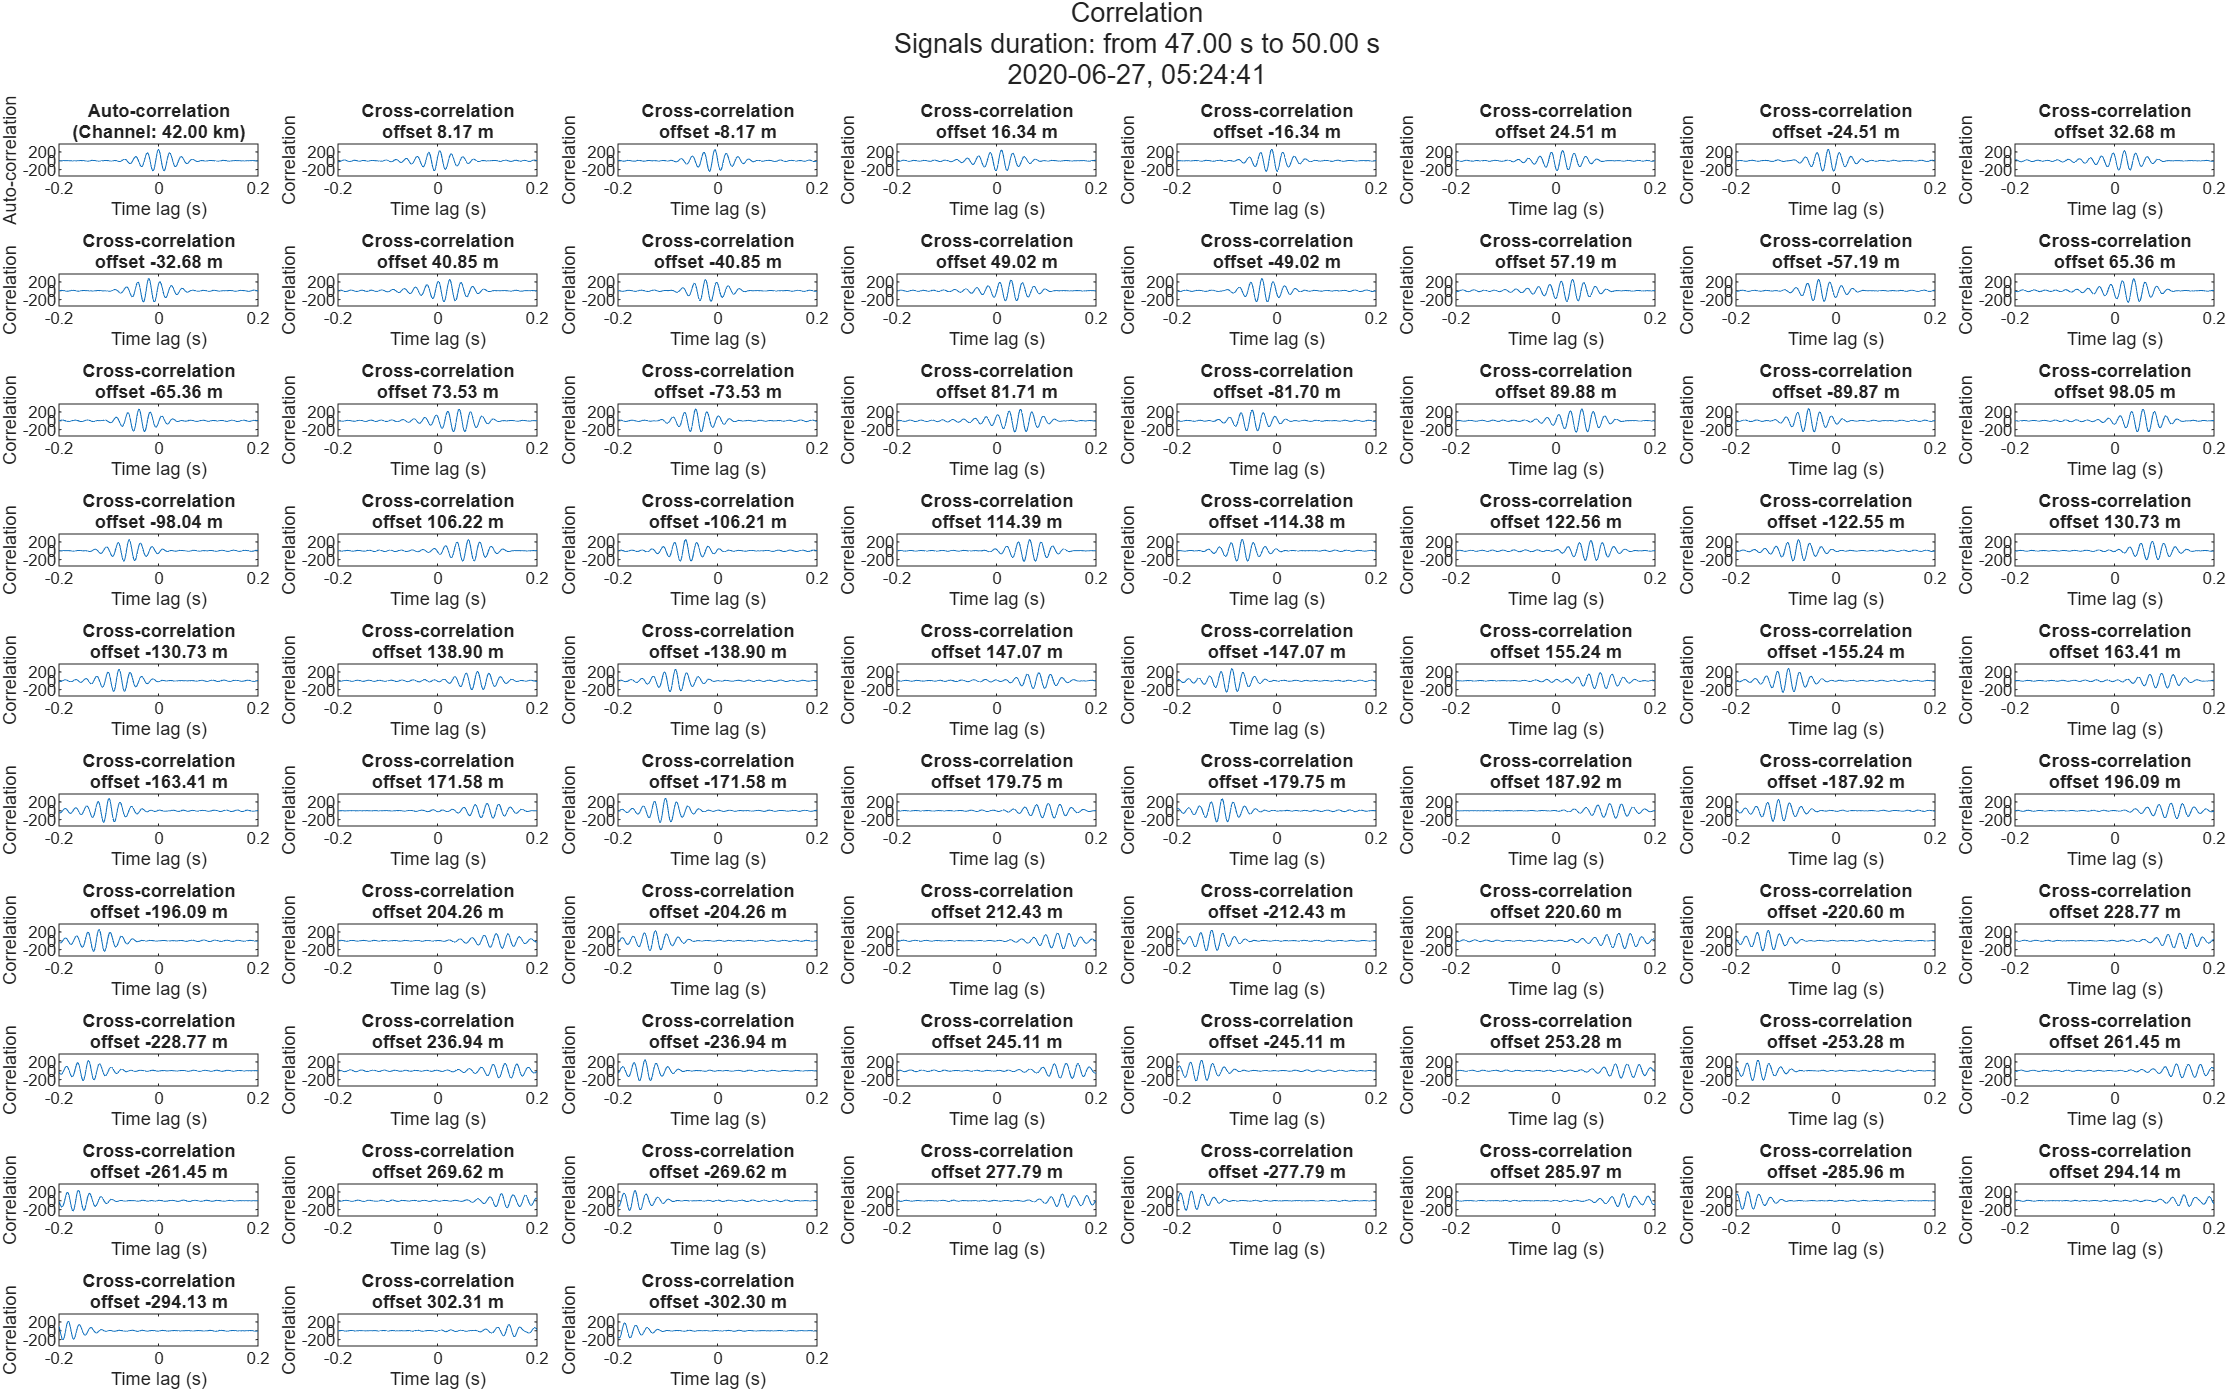
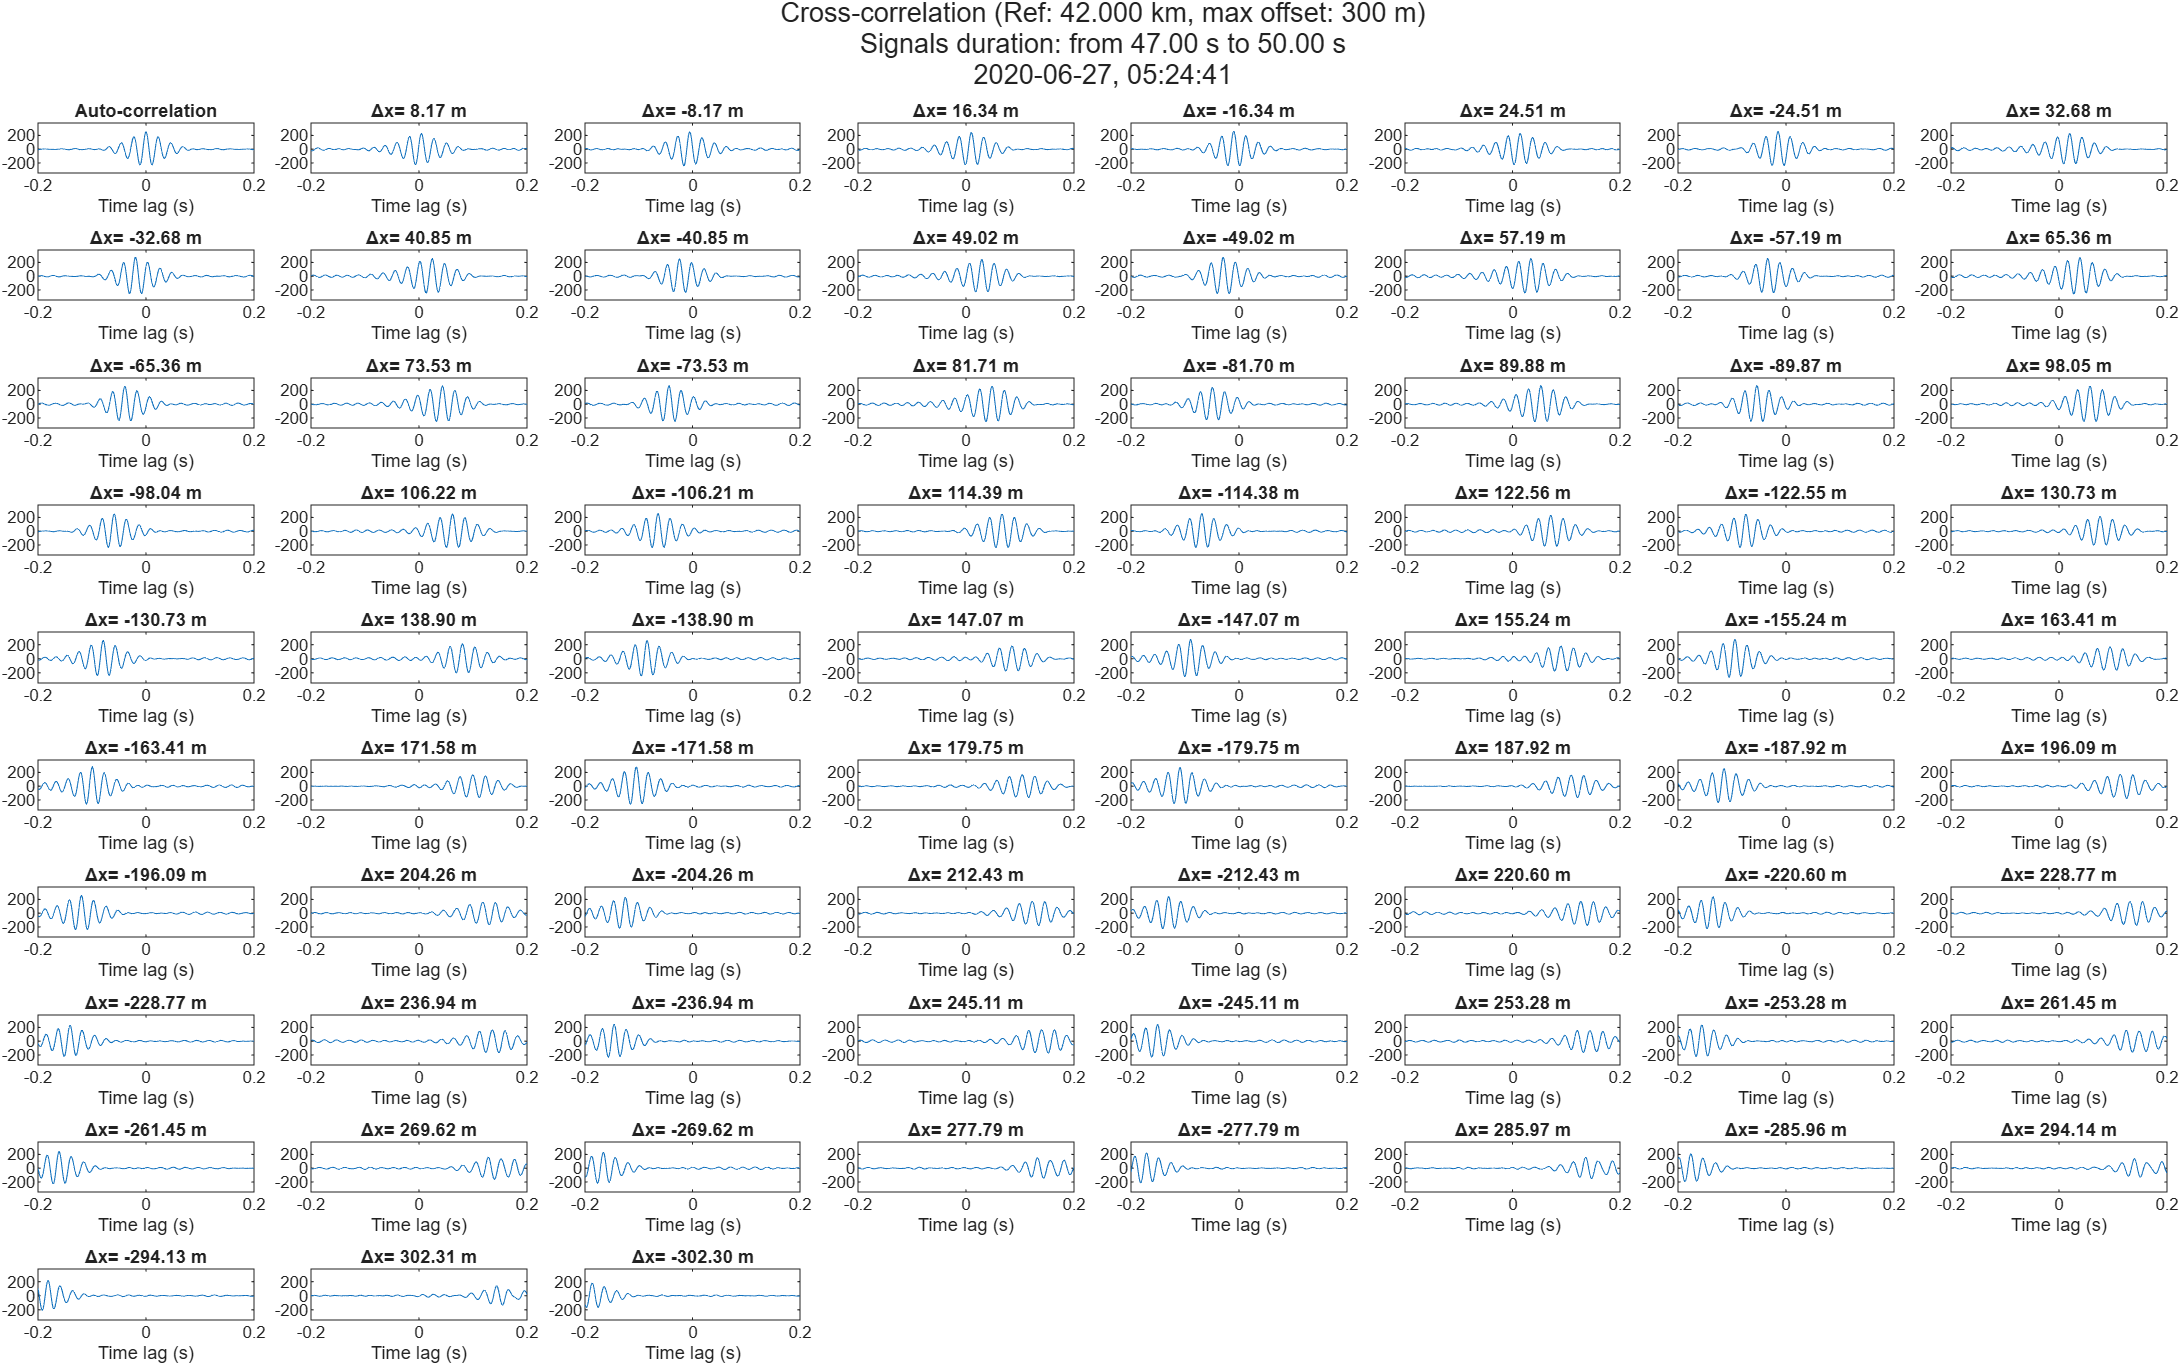
new format for correlation statistics

Changed region(s): [[0.0, 0.0, 0.9977, 1.0]]

diff --git a/plots/correlation_statistics.m b/plots/correlation_statistics.m
@@ -13,27 +13,33 @@
 function correlation_statistics(data, sampling_frequency, distance_m, ...
     channel_distance, channel_reference_distance_km, offset_xcorr, max_lag, file_name)
 
+    % number of samples
     max_lag_samples = round(max_lag * sampling_frequency);
+    %
 
     % closest channel to channel reference km
     channel_distance_m = channel_reference_distance_km * 1e3;
     [~, channel_reference_idx] = min(abs(distance_m - channel_distance_m)); % index of the closest channel to channel_reference_distance_km
     actual_channel_distance = distance_m(channel_reference_idx); % distance of the closest channel to channel_reference_distance_km
     channel_reference = data(channel_reference_idx, :);
+    %
     
     % sets up subplots
-    offset_step = 2; % calculates cross correlation every 2 channels
+    offset_step = 2; % calculates cross correlation every 2 channels (⁓8.16m)
     nb_subplots = 2 * round(offset_xcorr/(offset_step * channel_distance)) + 1;
     nb_columns = floor(sqrt(nb_subplots));
     nb_rows = ceil(nb_subplots / nb_columns);
+    %
 
     % open figure
-    figure('Position', [50, 50, 1800, 1200]);
+    figure('units','normalized','outerposition',[0 0 1 1]);
     t = tiledlayout(nb_rows,nb_columns,'TileSpacing','Compact', 'Padding', 'compact');
+    %
 
-    % Calculate auto-correlation for the reference channel
+    % (auto)correlation of refernce channel signal
     [auto_correlation, lags_auto] = xcorr(channel_reference, max_lag_samples);
     auto_time_lags = lags_auto/sampling_frequency;
+    %
 
     % parameters for plot scaling
     min_correlation = min(auto_correlation);
@@ -41,60 +47,78 @@ function correlation_statistics(data, sampling_frequency, distance_m, ...
 
     max_correlation = max(auto_correlation);
     max_correlation = max_correlation + max_correlation/2;
-    
-    % Plot auto-correlation
-    nexttile
+    %
 
+    % plot auto-correlation
+    nexttile
     plot(auto_time_lags, auto_correlation);
     ylim([min_correlation max_correlation]);
     xlabel('Time lag (s)');
-    ylabel('Auto-correlation');
-    title({'Auto-correlation', sprintf('(Channel: %.2f km)', actual_channel_distance .* 1e-3)});
+    %ylabel('Auto-correlation');
+    title('Auto-correlation');
+    %
 
-
+    % opens text file with correlation results
     fileID = fopen(file_name,'w');
-
+    %
+    
+    % writes (auto)correlation result on txt file
     fprintf(fileID, "\n_____ Cross-Correlation Statistics _____\n");
-    fprintf(fileID, "\nMax auto-correlation: %0.3d \n", max(auto_correlation));
-
+    fprintf(fileID, "\nMax auto-correlation: %0.3f \n", max(auto_correlation));
+    %
 
     for i = 1:(nb_subplots/2)
-
+    
+        % check on array limits
+        idx_plus = channel_reference_idx + i * offset_step;
+        idx_minus = channel_reference_idx - i * offset_step;
+        
+        if idx_plus > size(data, 1) || idx_minus < 1
+            break;
+        end
+        %
+    
+        % (cross)correlation with positive offset
         [x_corr1, lags_xcorr_1] = xcorr(channel_reference, data((channel_reference_idx + i * offset_step), :), max_lag_samples);
         time_lags_xcorr_1 = lags_xcorr_1 / sampling_frequency;
+        %
 
+        % plot result 
         nexttile
-
         plot(time_lags_xcorr_1, x_corr1);
         ylim([min_correlation max_correlation]);
-        ylabel('Correlation');
+        %ylabel('Correlation');
         xlabel('Time lag (s)');
-        title({'Cross-correlation' , ...
-            sprintf('offset %0.2f m', distance_m(channel_reference_idx + i * offset_step) - actual_channel_distance)});
+        title(sprintf('Δx= %0.2f m', distance_m(channel_reference_idx + i * offset_step) - actual_channel_distance));
+        %
 
-
+        % writes (cross)correlation result on txt file
         [max_xcorr1, max_xcorr1_idx] = max(x_corr1);
         fprintf(fileID, "\nMax correlation at offset %0.2f m: %0.3d \n", ...
             (distance_m(channel_reference_idx + i * offset_step) - actual_channel_distance), max_xcorr1);
         fprintf(fileID, "at time lag %0.5f s\n", time_lags_xcorr_1(max_xcorr1_idx));
+        
 
-
+        % (cross)correlation with positive offset
         [x_corr2, lags_xcorr_2] = xcorr(channel_reference, data((channel_reference_idx - i * offset_step), :), max_lag_samples);
         time_lags_xcorr_2 = lags_xcorr_2 / sampling_frequency;
+        %
 
+        % plot result 
         nexttile
-        
         plot(time_lags_xcorr_2, x_corr2);
         ylim([min_correlation max_correlation]);
-        ylabel('Correlation');
+        %ylabel('Correlation');
         xlabel('Time lag (s)');
-        title({'Cross-correlation' , ...
-            sprintf('offset %0.2f m', distance_m(channel_reference_idx - i * offset_step) - actual_channel_distance)});
+        title(sprintf('Δx= %0.2f m', distance_m(channel_reference_idx - i * offset_step) - actual_channel_distance));
+        %
 
+        % writes (cross)correlation result on txt file
         [max_xcorr2, max_xcorr2_idx] = max(x_corr2);
         fprintf(fileID, "\nMax correlation at offset %0.2f m: %0.3d \n", ...
             (distance_m(channel_reference_idx - i * offset_step) - actual_channel_distance), max_xcorr2);
         fprintf(fileID, "at time lag %0.5f s\n", time_lags_xcorr_2(max_xcorr2_idx));
+        %
 
     end
 

diff --git a/Bou_et_alia_2022.m b/Bou_et_alia_2022.m
@@ -206,7 +206,8 @@ filename_corr_stats = fullfile('Bou22_article_plots/', 'correlation_statistics_b
 
 correlation_statistics(strain_corr, sampling_frequency_Hz, distance_m, ...
     channel_distance, channel_position_km, offset_xcorr, max_lag, filename_corr_stats)
-sgtitle({'Correlation', sprintf('Signals duration: from %.2f s to %.2f s', time_corr_start, time_corr_end), time_and_date});
+sgtitle({sprintf('Cross-correlation (Ref: %.3f km, max offset: %d m)', channel_position_km, offset_xcorr), ...
+        sprintf('Signals duration: from %.2f s to %.2f s', time_corr_start, time_corr_end), time_and_date});
 
 filename_export = fullfile('Bou22_article_plots/', 'correlation_statistics_bou22_article_whale.png');
 exportgraphics(gcf, filename_export);
